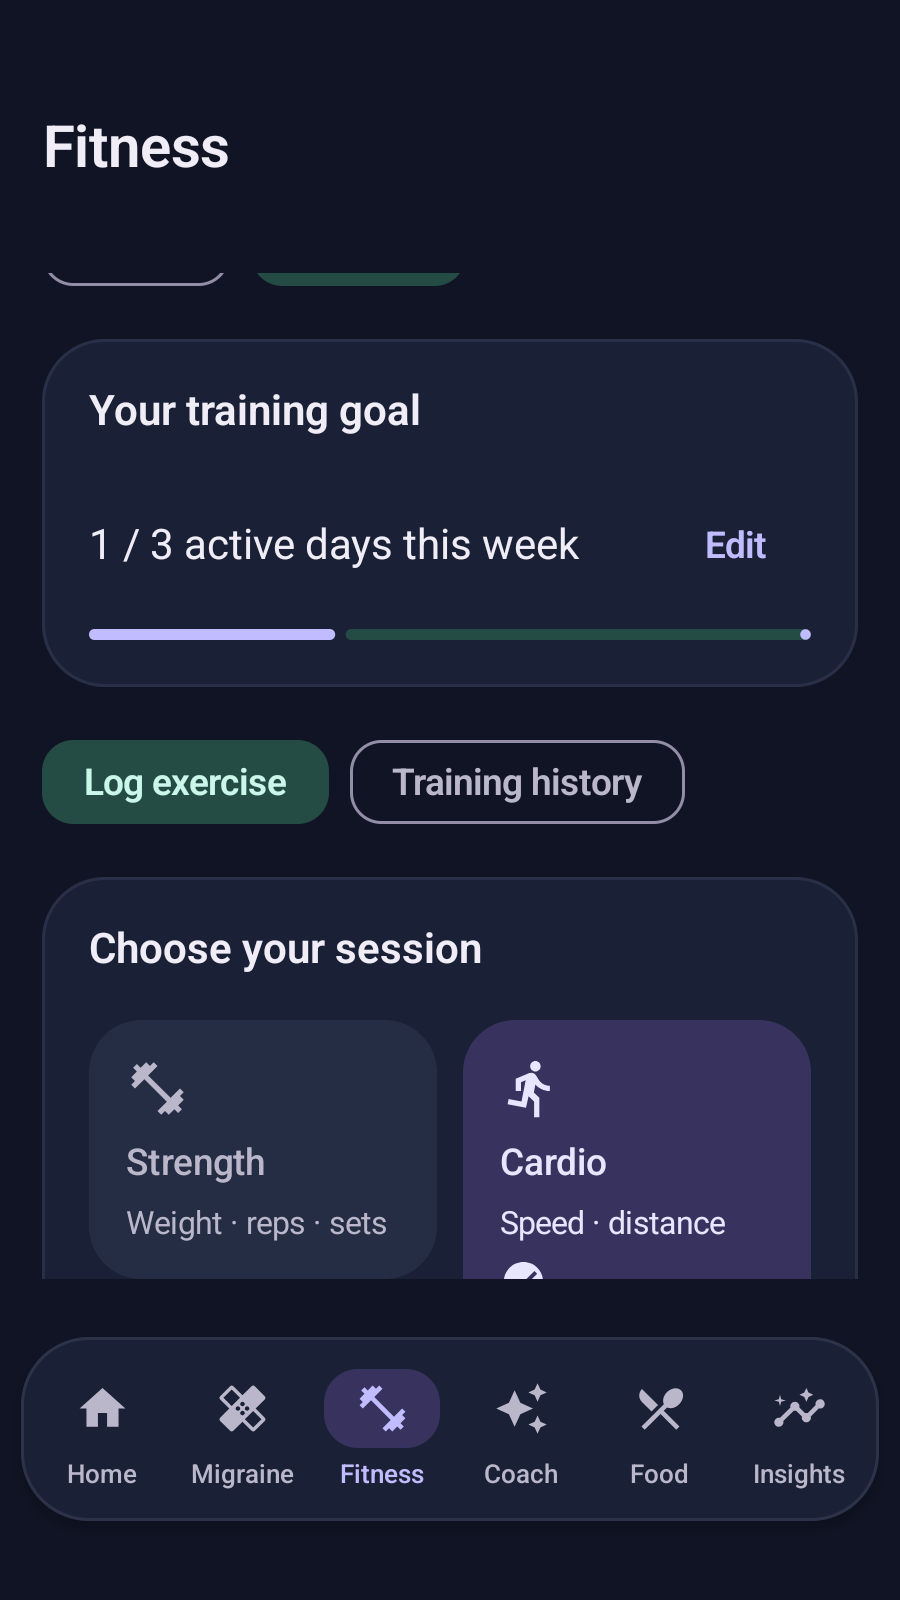
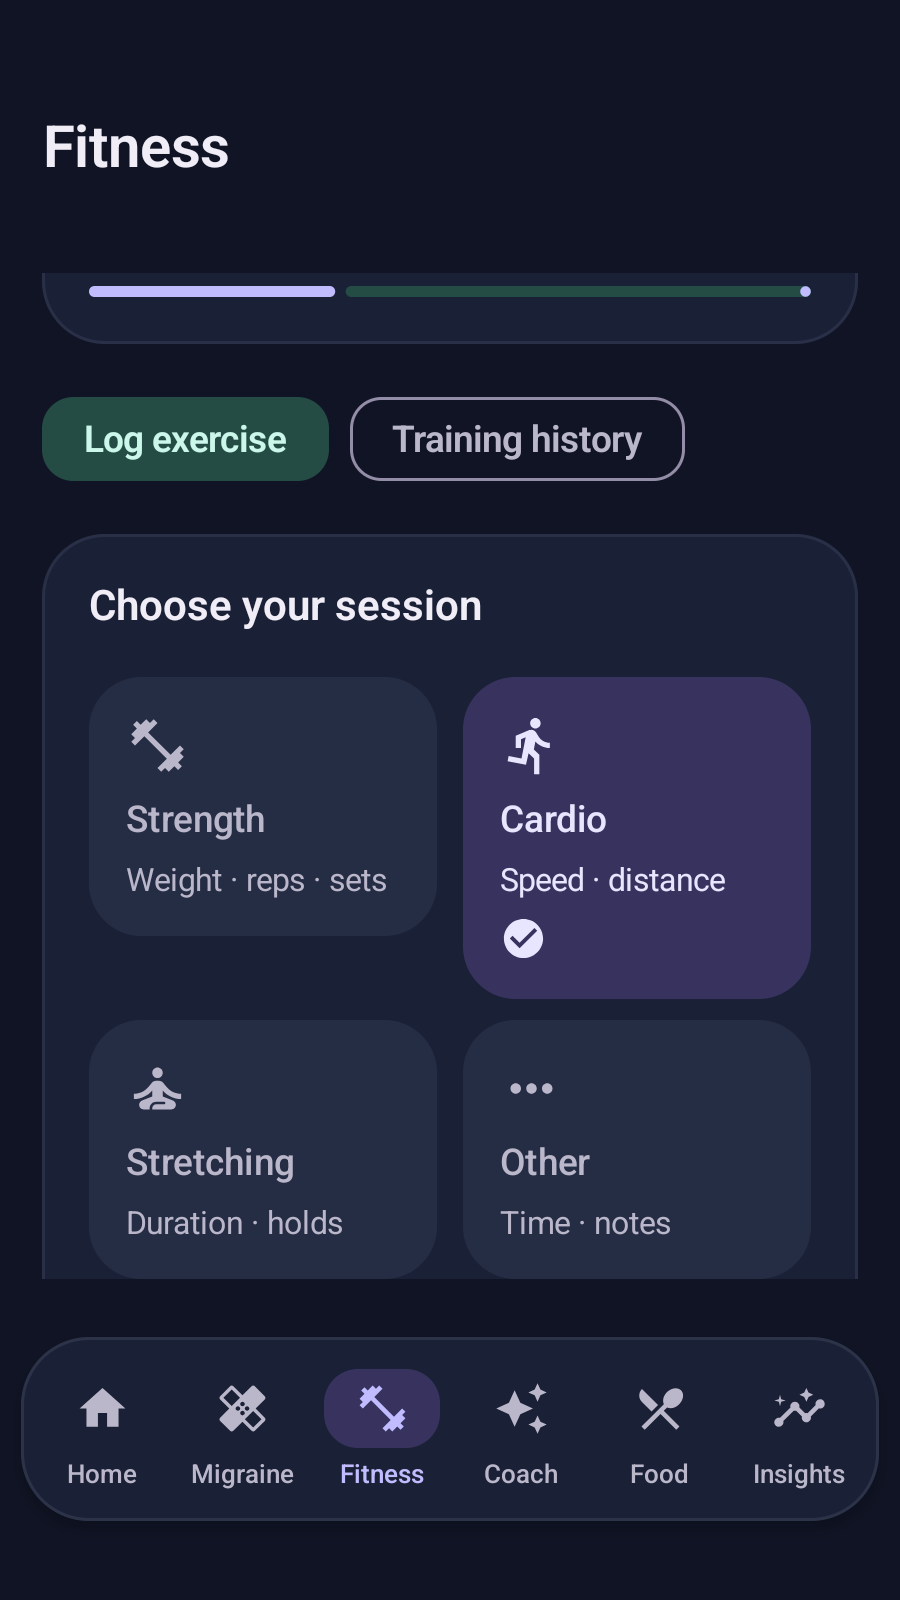
docs: record green capture checks and verified Hosting update [skip ci]

diff --git a/README.md b/README.md
@@ -25,7 +25,7 @@ A focused Home with daily essentials; a dedicated Migraine overview; Health/Trai
 
 Choose among eleven AI providers, use optional key-prefix suggestions, test the selected connection and change keys/models after setup. Set separate water/meal/medication/migraine intervals and active hours. Account shows measured Drive snapshot size. App can check GitHub for updates and open the download page; optional background notifications announce a newer release.
 
-<table><tr><td><img src="docs/images/v1.10.0/home-light.png" width="250" alt="Focused Home in light theme, synthetic emulator profile"></td><td><img src="docs/images/v1.10.0/training-set-entry.png" width="250" alt="Exercise weight, reps and completion controls"></td><td><img src="docs/images/v1.10.0/settings-updates.png" width="250" alt="Check for updates and open GitHub downloads"></td></tr></table>
+<table><tr><td><img src="docs/images/v1.10.0/training-cardio-picker.png" width="250" alt="Four distinct activity tiles"></td><td><img src="docs/images/v1.10.0/training-cardio-details.png" width="250" alt="Treadmill speed incline and distance fields"></td><td><img src="docs/images/v1.10.0/training-stretch-details.png" width="250" alt="Stretching hold seconds and rounds without weight fields"></td></tr></table>
 
 [Feature guide, inspected screenshots and changed-file/function reference](docs/UPDATE_1_10_0.md) · [Exact AI prompts and permissions](docs/AI_AND_PERMISSIONS.md). Screenshots use synthetic emulator data.
 

diff --git a/website/README.md b/website/README.md
@@ -27,3 +27,7 @@ Deployed the reviewed static files from source 6c7ca9dbcba573ca7b3f6488e5c892abd
 ## v1.9.1 public distribution update (2026-10-21)
 
 Deployed reviewed static source 77f8e1032e6439ea96d1f38d932c450fe3fe3ea2 through the existing authorized Cloud Shell and preinstalled Firebase CLI, Hosting only. All seven live files returned 200 and matched local bytes, including CSP and nosniff headers. Homepage showed v1.9.1 and its setup/help link opened the current support page. A final support-link correction points release verification to the v1.9 guide and 72 JVM / 20 Android tests. No billing or service expansion; APKs remain on GitHub. Public screenshot and file hashes are retained in ignored verification/v1.9.1.
+
+## v1.10.0 update (2026-10-21)
+
+Deployed reviewed static source 0d6628c629f0b7d41961172517358522a1d8f752 via the existing authorized Cloud Shell and preinstalled Firebase CLI, Hosting only. All seven live files returned 200 and matched the local bytes; restrictive CSP remained present. Help/privacy now describe the remembered device-only identity, water quick actions and activity-specific metrics. APK distribution remains public GitHub, with no billing/service expansion. Exact file hashes and browser proof stay under ignored verification/v1.10.0.

diff --git a/docs/UPDATE_1_10_0.md b/docs/UPDATE_1_10_0.md
@@ -124,3 +124,7 @@ Captured on the hosted API-35 emulator with synthetic accounts and workout entri
 ### settings updates
 
 <img src="images/v1.10.0/settings-updates.png" width="320" alt="settings updates with synthetic emulator data">
+
+### Final capture check
+
+[Follow-up run 39691512159](https://github.com/jdp323/migraineguard/actions/runs/39691512159), test-source 5e11431028e91af398bad1496c43cc52589ebcc8, also passed all checks and 24 Android tests (78.118 seconds). Application source/build configuration is unchanged from the released source; the existing release was retained. The picker image above is from that run and shows all four tiles. A system notification-panel screenshot was unavailable in the hosted emulator, so none is published. Tests verify that Android accepts the posted notification and its PendingIntent → private receiver → worker applies one chosen quantity without duplicate or cross-account writes. Lock-screen/OEM appearance remains a phone check.
